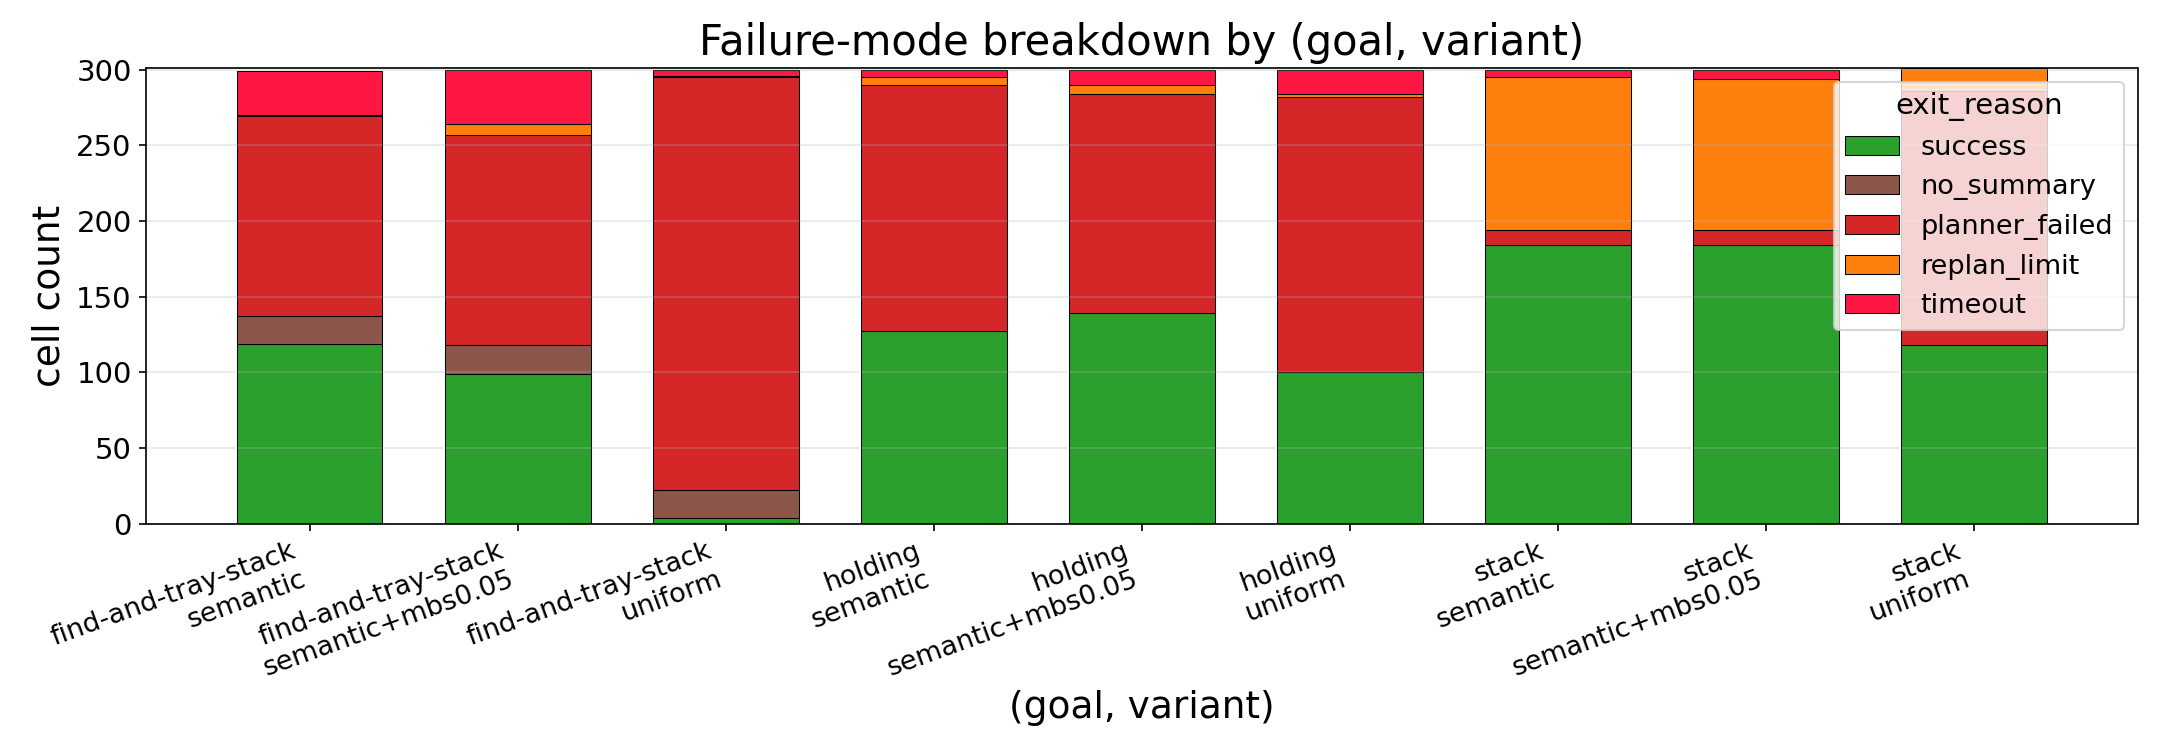
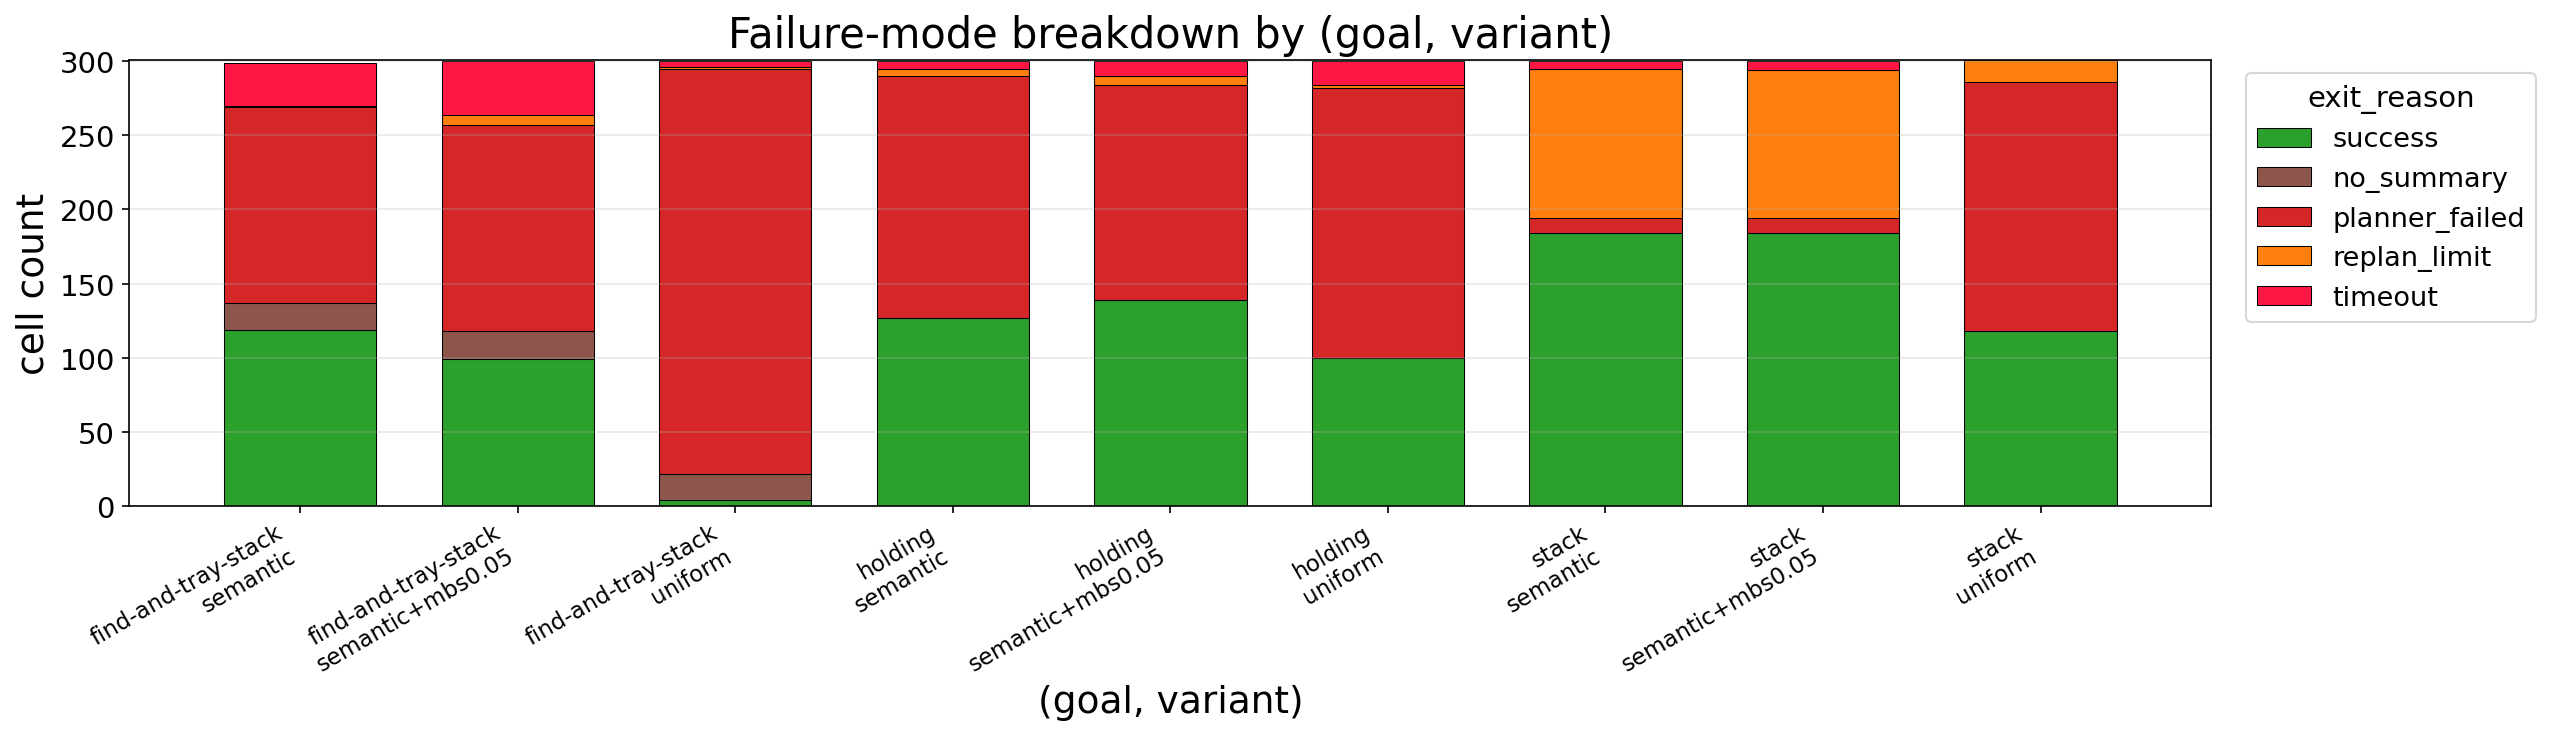
eval_plotter: move failure-mode legend outside axes (was overlapping the right-hand bars); steepen x-labels

diff --git a/eval_plotter.py b/eval_plotter.py
@@ -1256,7 +1256,7 @@ def plot_failure_modes(grouped: Dict[tuple, Dict[str, int]],
     labels = [f"{g}\n{v}" for g, v in keys]
     xs = list(range(len(keys)))
 
-    fig, ax = plt.subplots(figsize=(max(7, 1.6 * len(keys)), 5))
+    fig, ax = plt.subplots(figsize=(max(7, 1.9 * len(keys)), 5))
     cmap = plt.get_cmap("tab10")
     bottoms = [0.0] * len(keys)
     for ri, reason in enumerate(all_reasons):
@@ -1272,16 +1272,16 @@ def plot_failure_modes(grouped: Dict[tuple, Dict[str, int]],
         bottoms = [b + c for b, c in zip(bottoms, counts)]
 
     ax.set_xticks(xs)
-    ax.set_xticklabels(labels, fontsize=13, rotation=20, ha="right")
+    ax.set_xticklabels(labels, fontsize=11, rotation=30, ha="right")
     ax.tick_params(axis="y", labelsize=14)
     ax.set_xlabel("(goal, variant)", fontsize=18)
     ax.set_ylabel("cell count", fontsize=18)
     ax.set_title(title, fontsize=20)
     ax.grid(True, axis="y", alpha=0.3)
-    ax.legend(loc="upper right", fontsize=13, title="exit_reason",
-              title_fontsize=14)
+    ax.legend(loc="upper left", bbox_to_anchor=(1.01, 1.0), fontsize=13,
+              title="exit_reason", title_fontsize=14)
     fig.tight_layout()
-    fig.savefig(out_path, dpi=150)
+    fig.savefig(out_path, dpi=150, bbox_inches="tight")
     plt.close(fig)
     print(f"[plotter] wrote {out_path}")
     return out_path
